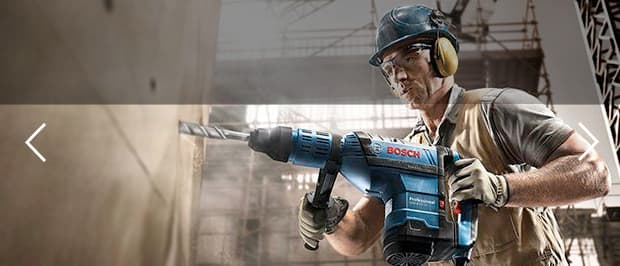
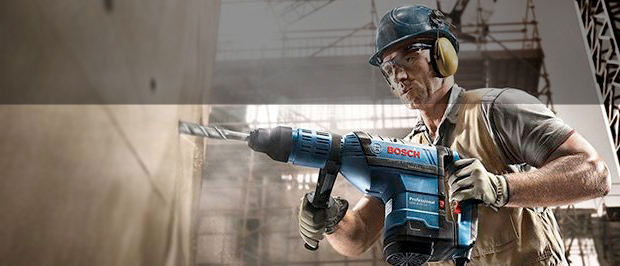
Исправил слайдер, добавил minicss

diff --git a/css/cssmini.css b/css/cssmini.css
@@ -1,0 +1,1 @@
+.top-header,body{line-height:24px}.logo-header,.logo-header:active{box-shadow:0 5px 0 var(--basic-shadow)}.button-header,.checkbox-check,.price-controls input,.radio-disk,.search-input{box-sizing:border-box}.catalog-all,.filter-result,body{align-content:start}.breadcrumbs-list,.button,.catalog-card-button,.filter-item ul,.legend,.name-page,.popular-manufacturers h2,.popular-tools h2,.products-services-slogan,.slide-title,.sorting-subject{text-transform:uppercase}.button,.checkbox-check,.radio-disk,.services-item button{vertical-align:middle}:root{--basic-red:#EE3643;--basic-green:#63A63E;--basic-greenlight:#5FBB2D;--basic-greendark:#518534;--basic-shadowgreen:#367315;--basic-grey:#32425C;--basic-greylight:#C5C5C5;--basic-ylellowlight:#F7F3EC;--basic-brownlight:#A9A9A9;--basic-greydark:#F9F5F0;--basic-background:#F1F5F7;--basic-wight:#FFFFFF;--basic-foggy:#F4F4F4;--basic-black:#000000;--basic-shadow:#B52933;--special-ylellow:#FFBF47;--special-orange:#FFC047;--special-blue:#3BBCE3;--special-lilac:#DC91D8;--special-greenlight:#8ED78F;--special-yellowlight:#FFD180;--special-success:#5FBB2D;--special-red:#BA2732;--special-red-focus-hover:#CA2C37;--special-grey:#293449;--special-grey-top-border:#405069;--special-greydark:#1D2739;--special-greylight:#EAEAEA;--special-wight:#F3F7F9;--products-services-focus:rgba(77, 77, 77, 0.3);--products-services-active:rgba(66, 66, 66, 0.3);--filtr-greenlight:#00CA74;--special-wight-opacity:rgba(255, 255, 255, 0.3);--special-shadow:rgba(0, 0, 0, 0.15);--header-active:rgba(255, 255, 255, 0.5);--border-filter:rgba(0, 0, 0, 0.1);--border-social:#212A3A}body{min-width:960px;margin:0;padding:0;font-family:Cuprum,Arial,sans-serif;font-size:14px;font-weight:400;color:var(--basic-black);background-color:var(--basic-wight);min-height:100%;display:grid;grid-template-rows:min-content 1fr min-content}a{text-decoration:none}img{max-width:100%;height:auto}html{height:100%}.visually-hidden:not(:focus):not(:active),input[type=checkbox].visually-hidden,input[type=radio].visually-hidden{position:absolute;width:1px;height:1px;margin:-1px;border:0;padding:0;clip:rect(0 0 0 0);overflow:hidden}.container{width:940px;margin:0 auto;padding:0 10px}.top-header{background-color:var(--special-grey);font-size:18px}.top-header .container{display:flex;flex-wrap:wrap}.top-header a{color:var(--basic-wight);padding-top:9px;padding-bottom:9px}.logo-header{padding-left:55px;padding-right:57px;background-color:var(--basic-red)}.top-header .logo-header{padding-top:11px;padding-bottom:6px}.logo-header:active{background-color:var(--special-red)}.search-header{width:271px;padding:0;margin:0;position:relative}.search-input{display:block;padding-top:9px;padding-bottom:9px;width:100%;background-color:var(--special-grey);padding-left:42px;border:none;outline:0;font:inherit}::-webkit-input-placeholder{color:var(--basic-wight)}.search-input:hover{background-color:var(--basic-wight)}.search-input+svg{position:absolute;left:16px;top:11px;fill:var(--basic-brownlight)}.search-input:hover+svg{fill:var(--basic-red)}.button-header{position:relative;padding-left:35px;width:136px}.button-header::before{content:"";opacity:.3;fill:var(--basic-wight);position:absolute;left:12px;top:12px;background-position:center;background-repeat:no-repeat}.breadcrumbs-item::after,.contacts-header::before{background-repeat:no-repeat;background-position:0 0;content:""}.bookmarks-header{width:164px;padding-left:42px}.bookmarks-header::before{background-image:url(../img/bookmark_icon.svg);width:14px;height:16px;left:19px}.basket-header::before{background-image:url(../img/basket_header_icon.svg);width:15px;height:15px}.button-header:focus::before,.button-header:hover::before{opacity:1}.button-header:active::before{opacity:.3}.basket-header-active{background-color:var(--basic-red)}.pay-header{background-color:var(--basic-greenlight);padding:19px 17px}.basket-header:active,.bookmarks-header:active{color:var(--header-active)}.pay-header:focus,.pay-header:hover{background-color:var(--basic-green);color:var(--header-active)}.pay-header:active{color:var(--basic-wight)}.main-header{background-color:var(--basic-background);width:100%;padding-bottom:66px}.registration a,.user-wrapper{background-color:var(--basic-wight)}.wrapper{display:grid;grid-template-columns:min-content 1fr min-content}.quote-header{font-style:Italic;font-size:16px;line-height:23px;color:var(--basic-red);width:197px;min-height:71px;margin:45px 93px 42px 30px}.contacts-header{margin-top:47px;text-align:center;width:270px;position:relative}.contacts-header a{color:var(--basic-red);font-size:21px;line-height:30px;font-weight:700;display:block;padding-top:4px;padding-bottom:5px;padding-left:27px;border:3px solid var(--basic-wight)}.contacts-header::before{background-image:url(../img/tel_icon.svg);width:20px;height:20px;top:12px;left:39px;position:absolute}.contacts-header p{color:var(--basic-grey);font-size:14px;line-height:24px;padding:0;margin:3px 0 0}.registration{padding:0;margin:58px 0 0;text-align:end;width:283px}.registration-enter{padding:12px 24px 12px 46px;margin:0 8px 0 0;position:relative;fill:var(--basic-greylight)}.registration-enter svg{position:absolute;top:16px;left:19px}.registration-user{margin:0;padding:12px 24px}.registration a{color:var(--basic-black);font-size:21px;line-height:21px}.registration a:focus,.registration a:hover{color:var(--basic-red);fill:var(--special-grey)}.registration a:active{color:var(--basic-greylight);fill:var(--basic-greylight)}.user-wrapper{min-width:299px;margin-top:46px;display:flex;justify-content:space-between}.user-enter,.user-exit{display:block;color:var(--basic-black);font-size:21px;line-height:21px;padding:12px 0;margin:0;position:relative;fill:var(--basic-greylight)}.user-enter{padding-left:56px;padding-right:50px}.user-enter svg{position:absolute;top:12px;left:15px}.user-exit svg{position:absolute;top:13px;left:-37px}.user-enter:focus,.user-enter:hover,.user-exit:focus,.user-exit:hover{fill:var(--special-grey)}.user-enter:active,.user-exit:active{color:var(--basic-greylight);fill:var(--basic-greylight)}.user-cabinet{margin-top:5px}.user-cabinet a{color:var(--basic-grey);font-size:16px;line-height:18px;padding-left:45px}.user-cabinet .user-cabinet-exit{position:relative;padding-left:28px}.user-cabinet-exit svg{fill:var(--basic-grey);position:absolute;left:9px;top:6px}.user-cabinet a:focus,.user-cabinet a:hover{color:var(--basic-red)}.user-cabinet-exit svg:focus,.user-cabinet-exit svg:hover{fill:var(--basic-red)}.sorting svg,.user-cabinet-exit svg:active{fill:var(--basic-greylight)}.user-cabinet a:active{color:var(--basic-greylight)}.button,.navigation-header a,.products-services-list,.slider{color:var(--basic-wight)}.navigation-header{list-style:none;margin:0;background-color:var(--basic-grey);box-shadow:0 5px 0 var(--special-grey);display:flex;flex-wrap:wrap;padding:0 33px;justify-content:space-between}.navigation-header a{font-size:18px;line-height:24px;display:block;text-align:center;padding:16px 20px 15px}.navigation-header a:focus,.navigation-header a:hover{background-color:var(--special-grey)}.navigation-header a:active{background-color:var(--special-greydark);opacity:.5}.button{font:inherit;text-align:center;background-color:var(--basic-red);border:none;display:inline-block;padding:7px 40px}.breadcrumbs-list,.catalog-all{font-family:"PT Sans",Arial,sans-serif}.button:focus,.button:hover{background-color:var(--special-red-focus-hover)}.button:active{background-color:var(--special-red)}.products-services{margin-bottom:60px}.products-services-list{list-style:none;padding:0;margin:58px 0 59px;display:grid;grid-template-columns:repeat(3,300px);grid-template-rows:repeat(3,123px);align-content:start;grid-gap:20px}.products-services-item p{font-size:24px;line-height:30px;font-weight:700;padding:0;margin:20px 0 14px 23px}.products-services-slogan{font-size:14px;line-height:18px;width:135px;text-align:center;display:block;color:var(--basic-wight);background-color:var(--special-wight-opacity);margin:0 0 0 23px;padding:10px 0}.products-services-slogan:focus,.products-services-slogan:hover{background-color:var(--products-services-focus)}.products-services-slogan:active{background-color:var(--products-services-active)}.products-services-item img{position:absolute;top:31px;left:213px}.backdrop-orange{background-color:var(--special-ylellow);position:relative}.backdrop-orange::after{content:"";position:absolute;background-image:url(../img/icon_new.png);top:0;right:0;width:70px;height:70px}.backdrop-blue{background-color:var(--special-blue);position:relative}.backdrop-blue img{position:absolute;top:33px;left:194px}.backdrop-violet{background-color:var(--special-lilac);position:relative}.backdrop-violet img{position:absolute;left:191px}.backdrop-green{background-color:var(--special-greenlight);grid-column:3/4;position:relative}.backdrop-green img{position:absolute;top:27px;left:196px}.backdrop-yellow{background-color:var(--special-orange);grid-column:3/4;position:relative}.slide-1,.slide-2{background-color:var(--special-grey)}.backdrop-yellow img{position:absolute;top:33px;left:191px}.slider-all{display:block;grid-column:1/3;grid-row:2/4}.slider{width:620px;min-height:266px;position:relative}.slide-1{background-image:url(../img/hammer_drill.jpg)}.slide-2{background-image:url(../img/drill.jpg)}.slider-list{list-style:none;padding:0;margin:0}.slide{display:none}.slide-current{display:block}.slide-title{font-size:36px;line-height:36px;padding-top:23px;padding-left:24px;margin:0 0 6px}.slider-item .slide-slogan{font-size:18px;line-height:24px;margin-top:5px;margin-bottom:112px;font-weight:400}.button-slider{margin-left:24px;opacity:1;padding:7px 47px}.button-slider-controls{padding:0;width:10px;height:10px;background-color:var(--basic-wight);border:1px solid var(--basic-wight);border-radius:50%;position:absolute;cursor:pointer;left:295px;top:220px}.button-back-slider{left:315px;background-color:var(--basic-red);border:2px solid var(--basic-wight)}.button-slider-arrow{padding:0;width:22px;height:40px;background-image:url(../img/arrow_icon.svg);background-color:transparent;border:none;outline:0;cursor:pointer;position:absolute;left:25px;top:122px}.back-slider-arrow{left:580px;transform:rotate(180deg)}.form-popup,.img-wrap img,.radio-disk::after{transform:translate(-50%,-50%)}.breadcrumbs-list{list-style:none;font-size:13px;line-height:18px;text-align:center;color:var(--basic-black);display:flex;flex-wrap:wrap;margin:10px 0;padding:0}.breadcrumbs-hammer-drill,.breadcrumbs-item{color:var(--basic-black);position:relative;margin-right:41px;padding-top:10px;padding-bottom:11px;display:block}.breadcrumbs-item::after{position:absolute;background-image:url(../img/next_icon.svg);width:7px;height:11px;top:13px;right:-26px}.name-page{background-color:var(--basic-background);font-size:30px;line-height:30px;font-weight:400;color:var(--basic-grey);padding:30px 0 30px 29px;margin:0 0 19px}.filter-title,.range-controls{background-color:var(--basic-ylellowlight)}.catalog-all{display:grid;grid-template-columns:220px 1fr}.filter-title{font-weight:400;font-size:13px;line-height:18px;text-transform:uppercase;width:200px;color:var(--basic-black);padding:10px 0 10px 18px;margin:0 0 13px}.filter-item{border:none;margin:0;padding:0}.legend{font-size:17px;line-height:30px;width:100%;font-weight:700;margin:0 0 17px;padding:16px 0 0;border-top:1px solid var(--border-filter)}.legend-price{border:none;padding:0;margin-bottom:12px}.range-filter{width:220px;margin-bottom:25px}.range-controls{position:relative;height:41px;border-radius:5px;margin-bottom:8px;padding-top:39px;padding-right:20px;padding-left:20px}.range-controls .scale{height:2px;background:var(--basic-brownlight)}.scale .bar{width:85%;height:2px;background:var(--filtr-greenlight);border:none}.toggle{width:4px;height:4px;background:var(--basic-grey);border:8px solid var(--basic-wight);border-radius:50%;position:absolute;top:30px;left:18px;box-shadow:0 2px 1px 0 var(--special-shadow);cursor:pointer}.toggle-max{left:160px}.price-controls{font-size:17px;line-height:18px;text-align:center;display:flex;justify-content:space-between}.price-controls input{font-family:inherit;font-size:inherit;padding-left:43px;border:none;border-radius:5px;background-color:var(--basic-ylellowlight);width:95px;height:38px}.price-controls .max-price-input{padding-left:24px}.max-price{position:relative}.max-price::before{position:absolute;top:19px;left:-19px;content:"";display:block;width:10px;height:2px;background-color:var(--basic-black)}.filter-item ul{list-style:none;font-size:15px;line-height:19px;margin:0;padding:0}.filter-checkbox{margin-bottom:16px}.checkbox-check{display:inline-block;width:23px;height:23px;border:2px solid var(--basic-greylight);margin-right:9px;border-radius:2px;position:relative}.checkbox-input,.radio-input{display:none}.checkbox-check::after{content:'';position:absolute;top:-2px;left:-2px;width:27px;height:23px;background-image:url(../img/checked_icon.svg);background-repeat:no-repeat;background-position:center;opacity:0}.checkbox-input:checked+.checkbox-check{border-color:transparent}.checkbox-input:disabled+.checkbox-check{opacity:.4}.checkbox-input:checked+.checkbox-check::after{opacity:1}.checkbox-input:disabled+.checkbox-check::after{opacity:.3}.filter-item-radio{margin-top:8px}.legend-radio{margin-bottom:23px}.filter-radio-button{margin-bottom:17px}.radio-disk{position:relative;width:25px;height:25px;border-radius:50%;border:4px solid var(--basic-greylight);display:inline-block;margin-right:6px}.radio-disk::after{content:'';width:9px;height:9px;position:absolute;left:50%;top:50%;border-radius:50%;background-color:transparent}.radio-input:checked+.radio-disk::after,.radio-input:disabled{background-color:var(--basic-greylight)}.radio-input:disabled+.radio-disk::after{opacity:.3;background-color:var(--basic-greylight)}.radio-input:disabled{opacity:.4}.filter-button{margin-top:17px;font-size:13px;line-height:18px;background-color:var(--basic-wight);border:1px solid var(--special-greylight);color:var(--basic-black);padding:8px 78px}.title-container{display:flex;align-items:center;background-color:var(--basic-greydark);justify-content:space-between}.popular-manufacturers h2,.popular-tools h2{font-size:30px;line-height:30px;font-weight:400;color:var(--basic-grey);padding:29px 0 28px;margin:0 0 0 28px}.button-popular-tools{margin:0 14px 0 0;padding:7px 24px}.button-popular-manufacturers{margin:0 18px 0 0;padding:7px 39px}.filter-result{display:grid;grid-template-columns:min-content 1fr min-content;grid-template-rows:min-content 1fr min-content;padding:0;margin:0}.sorting-subject{grid-column:1/-1;font-size:13px;line-height:18px;color:var(--basic-black);background-color:var(--basic-ylellowlight);display:flex;padding:0;margin:0 0 28px 20px}.sorting-subject h2{font-size:13px;line-height:18px;padding:10px 140px 10px 20px;margin:0}.sorting-list{list-style:none;padding:10px 0 0;margin:0;display:flex}.sorting-price{margin-right:70px}.sorting-type{margin-right:65px}.sorting-functions{margin-right:46px}.sorting-item a{color:var(--basic-black);opacity:.3;border-bottom:dotted 1px red}.sorting-item a:focus,.sorting-item a:hover{color:var(--basic-black);opacity:1;border-bottom:solid 1px red}.sorting-item a:active,.sorting-price-active a{color:var(--basic-red);opacity:1;border-bottom:none}.sorting svg{margin-right:21px}.sorting-down svg{margin:0}.sorting svg:focus,.sorting svg:hover{fill:var(--basic-black)}.sorting svg:active,.sorting-active svg{fill:var(--basic-red)}.catalog-list{display:grid;grid-template-columns:repeat(3,220px);grid-template-rows:318px 318px 318px;align-content:start;list-style:none;row-gap:18px;column-gap:20px;padding:0;margin:0 0 0 20px}.catalog-list-index,.popular-manufacturers-list{grid-template-columns:repeat(4,220px);align-content:start;grid-gap:20px;list-style:none}.catalog-list-index{grid-template-rows:318px;padding:0;margin:20px 0 72px}.catalog-card{font-family:"PT Sans",Arial,sans-serif;width:219px;height:315px;display:flex;flex-direction:column;border:1px solid var(--special-greylight);position:relative;cursor:pointer}.catalog-card-active,.catalog-card:hover{box-shadow:0 4px 20px var(--special-shadow)}.buy-button,.buy-button:active{box-shadow:0 3px 0 var(--basic-shadowgreen)}.catalog-card-popup{font-family:Cuprum,Arial,sans-serif;display:flex;flex-wrap:wrap;width:188px;height:107px;background-color:var(--basic-wight);position:absolute;top:28px;left:15px;padding-bottom:10px;z-index:-1}.catalog-card-button{font:inherit;width:135px;height:37px;font-size:14px;line-height:18px;text-align:center;margin:0 auto}.catalog-card-title a,.services-slogan{font-family:"PT Sans",Arial,sans-serif}.buy-button{color:var(--basic-wight);background-color:var(--basic-green);margin-top:7px;padding-left:16px;border:none;outline:0;position:relative}.buy-button::before,.new-card::after{position:absolute;content:""}.buy-button::before{left:28px;top:11px;background-image:url(../img/basket_header_icon.svg);background-position:center;background-repeat:no-repeat;width:15px;height:15px;opacity:.3}.bookmark-button{color:var(--basic-grey);background-color:var(--basic-wight);border:3px solid var(--basic-green);border-radius:2px;margin:0 auto}.buy-button:focus,.buy-button:hover{background-color:var(--basic-greenlight)}.bookmark-button:focus,.bookmark-button:hover{border-color:var(--basic-grey)}.buy-button:active{background-color:var(--basic-greendark)}.bookmark-button:active{opacity:.3}.catalog-card-active .catalog-card-popup,.catalog-card:hover .catalog-card-popup{z-index:1}.new-card::after{background-image:url(../img/icon_new.png);top:0;right:2px;width:70px;height:70px;z-index:10}.img-wrap{width:100%;height:164px;margin:8px 0 7px;padding:0;background-color:var(--basic-wight);position:relative}.img-wrap img{position:absolute;top:46%;left:48%}.catalog-card-title{padding:0;margin:0}.catalog-card-title a{text-align:center;font-weight:700;display:block;font-size:18px;line-height:20px;color:var(--basic-black);width:170px;margin:0 auto;margin-bottom:7px;padding:0 20px}.catalog-card-discount,.catalog-card-price{font-weight:700;font-size:17px;text-align:center;text-transform:uppercase}.catalog-card-price{color:var(--basic-greylight);line-height:18px;padding:0;margin:0 0 12px}.catalog-card-price-not{visibility:hidden}.catalog-card-discount{line-height:18px;color:var(--basic-wight);background-image:url(../img/border_discount.png);background-repeat:no-repeat;display:block;padding:10px 43px 10px 32px;margin:0 auto 21px 45px}.page-item a,.page-list{color:var(--basic-black)}.page-list{font-size:13px;line-height:18px;list-style:none;grid-column:1/-1;display:flex;margin:46px 0 59px 20px;padding:0}.page-item a{display:block;border:1px solid var(--special-greylight);border-radius:2px;padding:10px 15px;margin-right:9px}.page-item:last-child a{padding:10px 31px;text-transform:uppercase}.page-item a:focus,.page-item a:hover{border:1px solid var(--basic-greylight)}.page-item a:active{border:1px solid var(--basic-red)}.page-item-active a{background-color:var(--basic-red);color:var(--basic-wight)}.popular-manufacturers-list{padding:0;margin:21px 0 70px;display:grid;grid-template-rows:repeat(2,145px)}.popular-manufacturers-item{border:1px solid var(--special-greylight);width:220px;height:145px;margin:0;padding:0;position:relative}.popular-manufacturers-item a{display:block;width:100%;height:100%}.popular-manufacturers-item img{position:absolute;left:50%;top:50%;transform:translate(-50%,-50%)}.manufacturer-makita img{left:49%;top:48%}.manufacturer-dewalt img{left:50%;top:48%}.manufacturer-interscol img{left:49%;top:45%}.popular-manufacturers-item:focus,.popular-manufacturers-item:hover{box-shadow:0 4px 20px var(--special-shadow)}.popular-manufacturers-item :active{opacity:.5;outline:0}.services{background-color:var(--basic-background);width:100%;padding:65px 0 72px}.services-heading{font-size:30px;line-height:30px;text-transform:uppercase;font-weight:400;margin:0;padding:0 0 25px}.services-slogan{font-size:13px;line-height:24px;margin:0;padding:0 0 70px;width:400px}.services-container{display:flex;flex-wrap:wrap}.services-list{list-style:none;margin:0;padding:0 0 25px;position:relative}.services-list::after{content:"";position:absolute;background-image:url(../img/border_servis.png);top:-45px;right:0;width:10px;height:279px}.service-credit-text::before,.service-delivery-text::before,.service-guarantee-text::before{background-position:0 0;height:261px;content:""}.services-item{font-weight:700;font-size:21px;line-height:30px;margin:0;padding:0}.services-item button{font:inherit;margin:0;padding:13px 0 18px 22px;width:240px;text-align:start;display:inline-block;background-color:var(--basic-grey);color:var(--basic-wight);border:none;border-top:1px solid var(--special-grey-top-border);border-bottom:1px solid var(--special-grey)}.company h2,.contacts h2,.hammer-drill-subject,.service-submenu h3{text-transform:uppercase;font-weight:400}.services-item button:focus,.services-item button:hover{background-color:var(--special-grey)}.services-item button:active,.services-item-current button{background-color:var(--basic-wight);color:var(--basic-grey);outline:0;border:none}.contacts-footer,.contacts-footer a,.contacts-footer p{color:var(--special-wight)}.service-submenu{display:none;margin-left:80px;flex-grow:1}.service-submenu-current{display:block}.service-submenu h3{font-size:30px;line-height:30px;margin:0 0 30px;padding:0}.service-submenu p{font-family:"PT Sans",Arial,sans-serif;font-size:13px;line-height:24px;margin:0;padding:0}.service-delivery-text{position:relative;width:283px}.service-delivery-text::before{background-image:url(../img/delivery.svg);background-repeat:no-repeat;width:468px;position:absolute;left:150px;top:-39px}.service-delivery-slogan{width:200px}.service-guarantee h3{margin-bottom:18px}.service-guarantee p{padding-top:5px}.service-guarantee-text{position:relative;width:320px}.service-guarantee-text::before{background-image:url(../img/guarantee.svg);background-repeat:no-repeat;width:468px;position:absolute;left:239px;top:-53px}.service-credit h3{margin-bottom:27px}.service-credit-text{position:relative;width:280px}.service-credit-text::before{background-image:url(../img/credit.svg);background-repeat:no-repeat;width:468px;position:absolute;left:165px;top:-60px}.button-credit{margin-top:26px;padding:7px 45px}.columns-company{display:flex;justify-content:space-between;margin-bottom:69px}.company{width:460px}.contacts{width:300px}.company h2,.contacts h2{font-size:30px;line-height:30px;margin:72px 0 24px}.company p,.contacts p{font-size:13px;font-family:"PT Sans",Arial,sans-serif}.company p{line-height:24px}.company-text-shop{width:478px;margin-bottom:25px}.company-text-delivery{width:400px;margin-bottom:2px}.contacts p{line-height:24px;width:180px;margin:0}.texnomart-delivery{font-size:18px;line-height:24px;list-style:none;margin:0;padding:0 0 0 37px}.texnomart-delivery li{margin-bottom:12px;position:relative}.texnomart-delivery li::before{position:absolute;top:11px;left:-35px;content:"";display:block;width:25px;height:2px;background-color:var(--basic-red)}.button-company,.button-popup{margin-top:9px}.button-popup{padding-left:62px;padding-right:61px;margin-top:18px}.contacts img{margin-top:32px}.hammer-drill-text{background-color:var(--basic-background);padding-top:64px;padding-bottom:68px}.hammer-drill-subject{font-size:30px;line-height:30px;padding:0;margin:0 0 25px}.hammer-drill-slogan{font-family:"PT Sans",Arial,sans-serif;font-size:13px;line-height:24px;width:910px;padding:0;margin:0}.contacts-footer,.contacts-footer p,.navigation-footer,.navigation-servic-footer{font-size:18px;line-height:24px}.main-footer{background-color:var(--basic-grey)}.wrap-footer{display:flex;flex-wrap:wrap}.contacts-footer{margin-bottom:54px}.logo-footer{background-color:var(--basic-red);display:block;width:220px;padding-top:19px;padding-bottom:14px;box-shadow:0 5px 0 var(--basic-shadow);text-align:center}.contacts-footer p{padding:28px 0 0 2px;margin:0}.tel-footer{padding-left:3px}.wrapper-footer{flex-grow:1;padding-top:9px}.navigation-footer{list-style:none;display:flex;flex-wrap:wrap;padding:0 0 0 10px;margin:18px 0 0}.navigation-footer li{flex-grow:1}.navigation-footer a{display:block;margin:0;padding:10px 0;color:var(--basic-background);text-align:end}.navigation-servic-footer{list-style:none;display:flex;flex-wrap:wrap;padding:0 0 0 33px;margin:9px 0 0}.navigation-servic-footer li{flex-grow:1}.navigation-servic-footer a{color:var(--special-yellowlight);display:block;margin:0;padding:14px 0 10px;text-align:end}.social-list,.wrap-bottom-footer{display:flex}.navigation-footer a:focus,.navigation-footer a:hover,.navigation-servic-footer a:focus,.navigation-servic-footer a:hover{text-decoration:underline}.navigation-footer a:active,.navigation-servic-footer a:active{opacity:.5}.bottom-footer{color:var(--basic-wight);background-color:var(--special-grey)}.text-footer{font-size:16px;line-height:18px;padding:35px 0;margin:0}.text-footer-company{width:237px;margin-right:auto;padding-left:2px}.text-footer-mail{width:137px;margin-right:51px;margin-left:119px}.text-footer-copyright{width:98px;margin-right:13px}.text-footer a{color:var(--special-ylellow)}.text-footer a:focus,.text-footer a:hover{text-decoration:underline}.text-footer a:active{color:var(--special-red)}.button-next,.form-popup{color:var(--basic-black)}.social-list{margin:0;padding:34px 0 0}.social-button{list-style:none;margin-right:3px;width:41px;height:41px;text-align:center;background-color:var(--border-social);border-radius:50%}.social-button:active,.social-button:future,.social-button:hover{background-color:var(--basic-red)}.form-popup{display:none;background-color:var(--basic-wight);box-shadow:0 4px 20px var(--special-shadow);position:fixed;left:50%;top:50%;width:620px;height:430px;border-top:7px solid var(--basic-red)}.form-popup form{margin:40px 0 0;position:relative}.form-popup-wrapper{display:flex;flex-wrap:wrap;justify-content:space-between;margin-left:80px;margin-right:80px}.form-popup-wrap{width:220px}.form-popup-wrap label{display:block;font-size:18px;line-height:24px;margin-bottom:8px}.text-popup{width:460px}.text-popup label{margin-top:13px}.form-popup-wrap input,.form-popup-wrap textarea{box-sizing:border-box;background-color:transparent;border:2px solid var(--basic-greylight);border-radius:2px;color:var(--basic-black);font-size:13px;line-height:24px;width:100%;padding:7px 12px}.form-popup-wrap textarea{margin-bottom:37px}.bottom-form{width:620px;padding:30px 0;background-color:var(--basic-foggy)}.button-form-popup{padding:7px 199px;margin:0 80px}.button-close{position:absolute;background-color:var(--basic-wight);outline:0;border:0;top:20px;left:580px;width:21px;height:21px;cursor:pointer}.button-close::after,.button-close::before{content:"";position:absolute;top:2px;left:6px;width:25px;height:3px;background-color:var(--basic-red)}.button-close::before{transform:rotate(45deg)}.button-close::after{transform:rotate(-45deg)}.big-maps,.madal-form-basket{position:fixed;transform:translate(-50%,-50%);display:none}.big-maps{width:943px;height:449px;left:50%;top:50%;border-top:7px solid var(--basic-red)}.big-maps iframe{border:none}.map-close{left:904px;top:17px;background-color:transparent}.madal-form-basket{width:620px;height:283px;left:50%;top:50%;border-top:7px solid var(--basic-red)}.madal-form-basket h2{font-size:24px;line-height:30px;margin:0;padding:67px 0 68px 177px;background-color:var(--basic-wight)}.madal-form-basket::after{content:"";position:absolute;background-image:url(../img/form_basket_icon.svg);top:49px;left:80px;width:66px;height:66px}.vrap-madal-form-basket{background-color:var(--special-wight);padding-top:37px;padding-bottom:37px}.button-buy{margin-left:115px;padding:7px 47px}.button-next{background-color:var(--basic-wight)}.button-close-basket{top:20px;right:11px;width:24px;height:24px;cursor:pointer}.button-close-basket::after,.button-close-basket::before{content:"";position:absolute;top:0;left:6px}

diff --git a/index.html b/index.html
@@ -8,7 +8,7 @@
     href="https://fonts.googleapis.com/css2?family=Cuprum:ital,wght@0,400;0,700;1,400&family=PT+Sans:wght@400;700&display=swap"
     rel="stylesheet">
   <link href="css/normalize.css" rel="stylesheet">
-  <link href="css/style.css" rel="stylesheet">
+  <link href="css/cssmini.css" rel="stylesheet">
 </head>
 
 <body>
@@ -131,6 +131,16 @@
                   <a class="button button-slider" href="catalog.html">открыть каталог</a>
                 </li>
               </ul>
+
+
+              <div class="slider-arrow">
+                <button type="button" class="button-slider-arrow next-slider-arrow"
+                  aria-label="предыдущий слайд"></button>
+                <button type="button" class="button-slider-arrow back-slider-arrow"
+                  aria-label="следующий слайд"></button>
+              </div>
+
+
               <div class="slider-controls">
                 <button type="button" class="button-slider-controls button-next-slider"
                   aria-label="Первый слайд"></button>

diff --git a/css/style.css b/css/style.css
@@ -702,6 +702,25 @@ input[type="radio"].visually-hidden {
     border: 2px solid var(--basic-wight);
 }
 
+.button-slider-arrow {
+    padding: 0;
+    width: 22px;
+    height: 40px;
+    background-image: url(../img/arrow_icon.svg);
+    background-color: transparent;
+    border: none;
+    outline: none;    
+    cursor: pointer;
+    position: absolute;
+    left: 25px;
+    top: 122px;
+}
+
+.back-slider-arrow {
+    left: 580px;
+    transform: rotate(180deg);
+}
+
 /**breadcrumbs*/
 
 .breadcrumbs-list {

diff --git a/catalog.html b/catalog.html
@@ -8,7 +8,7 @@
     href="https://fonts.googleapis.com/css2?family=Cuprum:ital,wght@0,400;0,700;1,400&family=PT+Sans:wght@400;700&display=swap"
     rel="stylesheet">
   <link href="css/normalize.css" rel="stylesheet">
-  <link href="css/style.css" rel="stylesheet">
+  <link href="css/cssmini.css" rel="stylesheet">
 </head>
 
 <body>
